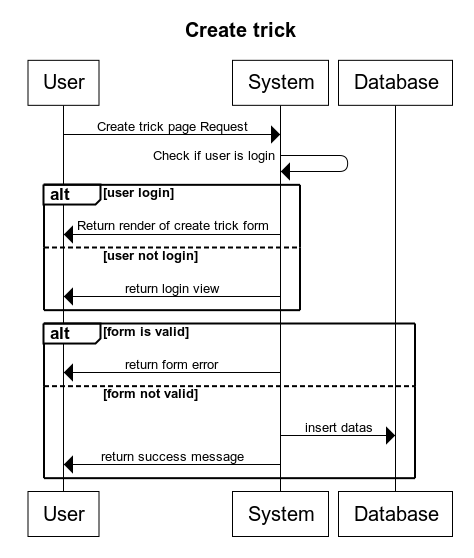
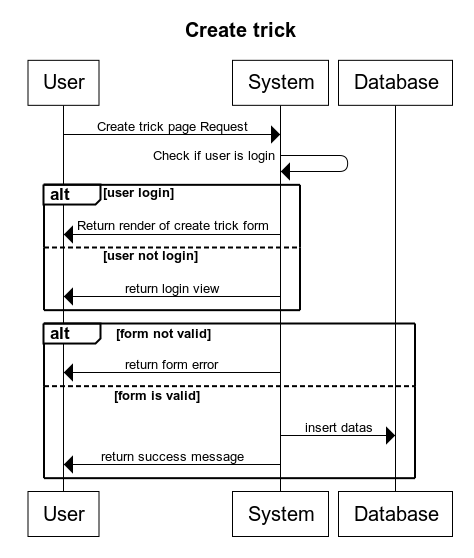
fix issue diagrams sequences create trick & edit trick & update readme command doctrine fixtures load

Changed region(s): [[0.2068, 0.7007, 0.443, 0.7312], [0.2068, 0.5789, 0.443, 0.6093]]

diff --git a/README.md b/README.md
@@ -57,7 +57,7 @@ OR
 php bin/console make:migration
 php bin/console doctrine:migrations:migrate
 // 3) Load fixtures
-php bin/console doctrines:fixtures:load
+php bin/console doctrine:fixtures:load
 ```
 ## Deployment
 
